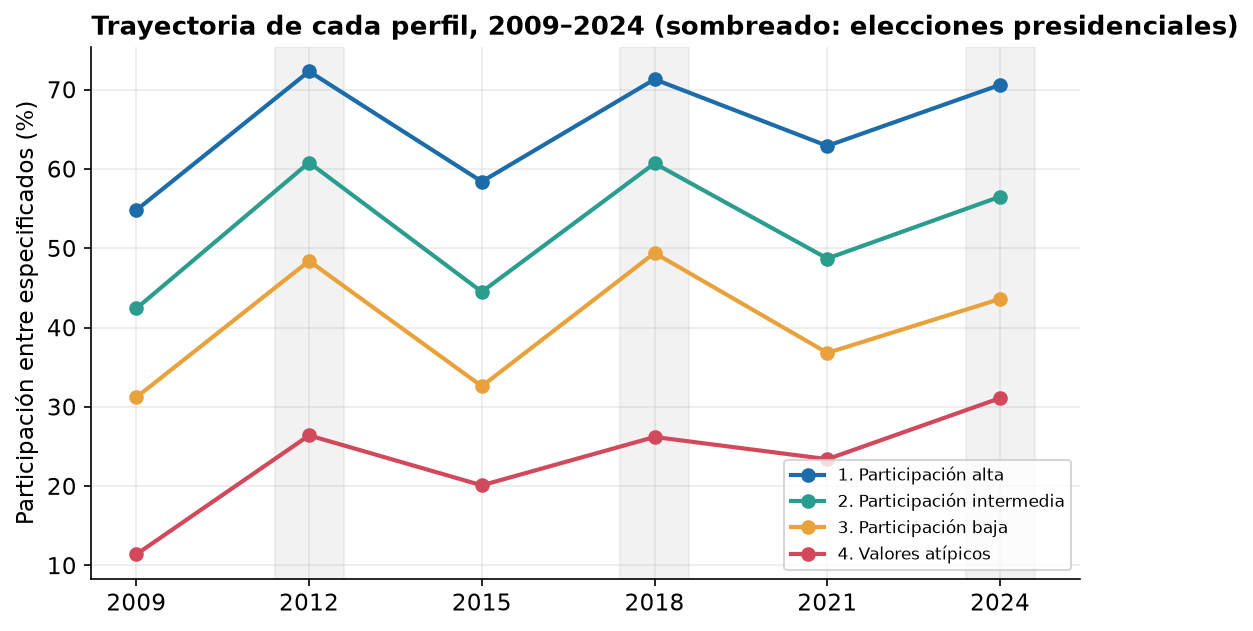
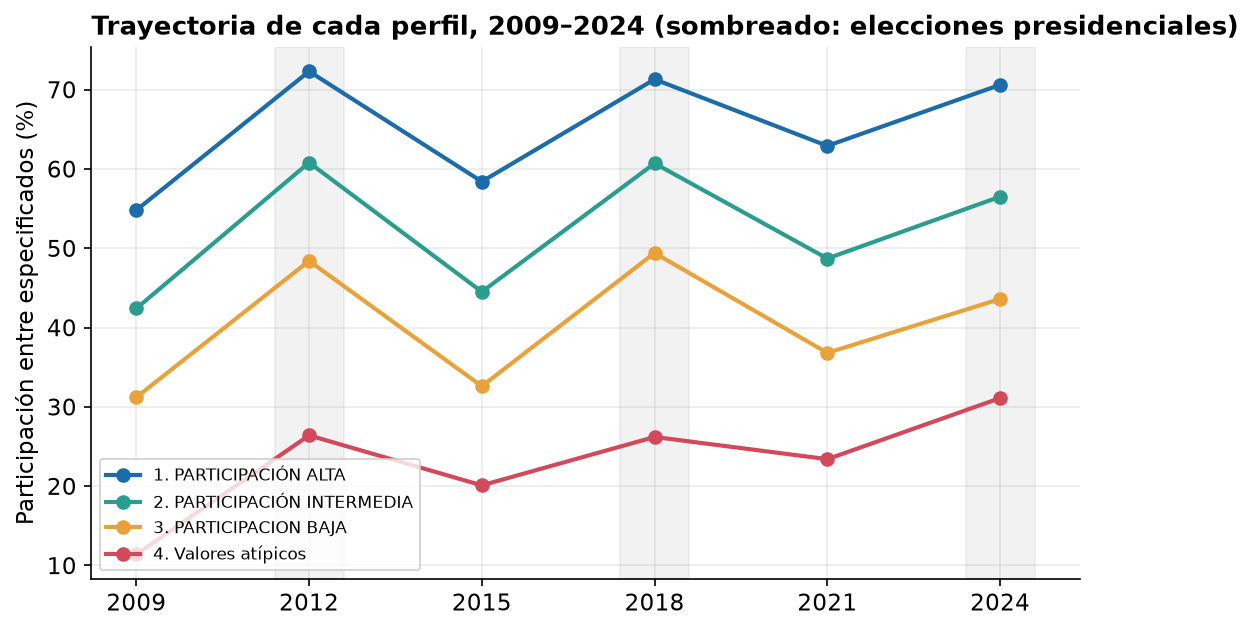
Unifica los nombres de los perfiles de participación en tablas y gráficas

Changed region(s): [[0.0623, 0.7227, 0.3424, 0.9033], [0.6225, 0.7227, 0.8715, 0.9033]]

diff --git a/scripts/20_figuras_perfiles.py b/scripts/20_figuras_perfiles.py
@@ -6,7 +6,7 @@ import matplotlib.pyplot as plt
 from config import PROC, TABLAS, GRAFICAS, RAIZ, ANIOS
 from estilo import PAL, plt as _p
 OUT = RAIZ / "reports/perfiles_sexo_edad"; OUT.mkdir(parents=True, exist_ok=True)
-NOM = {1: "1. Participación alta", 2: "2. Participación intermedia", 3: "3. Participación baja", 4: "4. Valores atípicos"}
+NOM = {1: "1. PARTICIPACIÓN ALTA", 2: "2. PARTICIPACIÓN INTERMEDIA", 3: "3. PARTICIPACION BAJA", 4: "4. Valores atípicos"}
 COL = {1: PAL[0], 2: PAL[2], 3: PAL[3], 4: PAL[1]}
 def guardar(fig, n): fig.savefig(OUT / n, dpi=150, bbox_inches="tight", facecolor="white"); plt.close(fig)
 

diff --git a/README.md b/README.md
@@ -35,7 +35,7 @@ La etapa de exploración ya cuenta con una segmentación sociodemográfica y res
 
 ## Perfiles por sexo y edad (propuesta actual)
 
-Propuesta de cuatro perfiles nacionales de participación (alta, intermedia, baja y valores atípicos) definidos por sexo y edad simple, con un ajuste por región y tipo de sección. Explicación completa, figuras, tratamiento de los no especificados y de las personas no binarias, robustez y límites en [reports/perfiles_sexo_edad/](reports/perfiles_sexo_edad/README.md).
+Propuesta de cuatro perfiles nacionales de participación (PARTICIPACIÓN ALTA, PARTICIPACIÓN INTERMEDIA, PARTICIPACION BAJA y Valores atípicos) definidos por sexo y edad simple, con un ajuste por región y tipo de sección. Explicación completa, figuras, tratamiento de los no especificados y de las personas no binarias, robustez y límites en [reports/perfiles_sexo_edad/](reports/perfiles_sexo_edad/README.md).
 
 ## Resultados de la segmentación sociodemográfica
 
